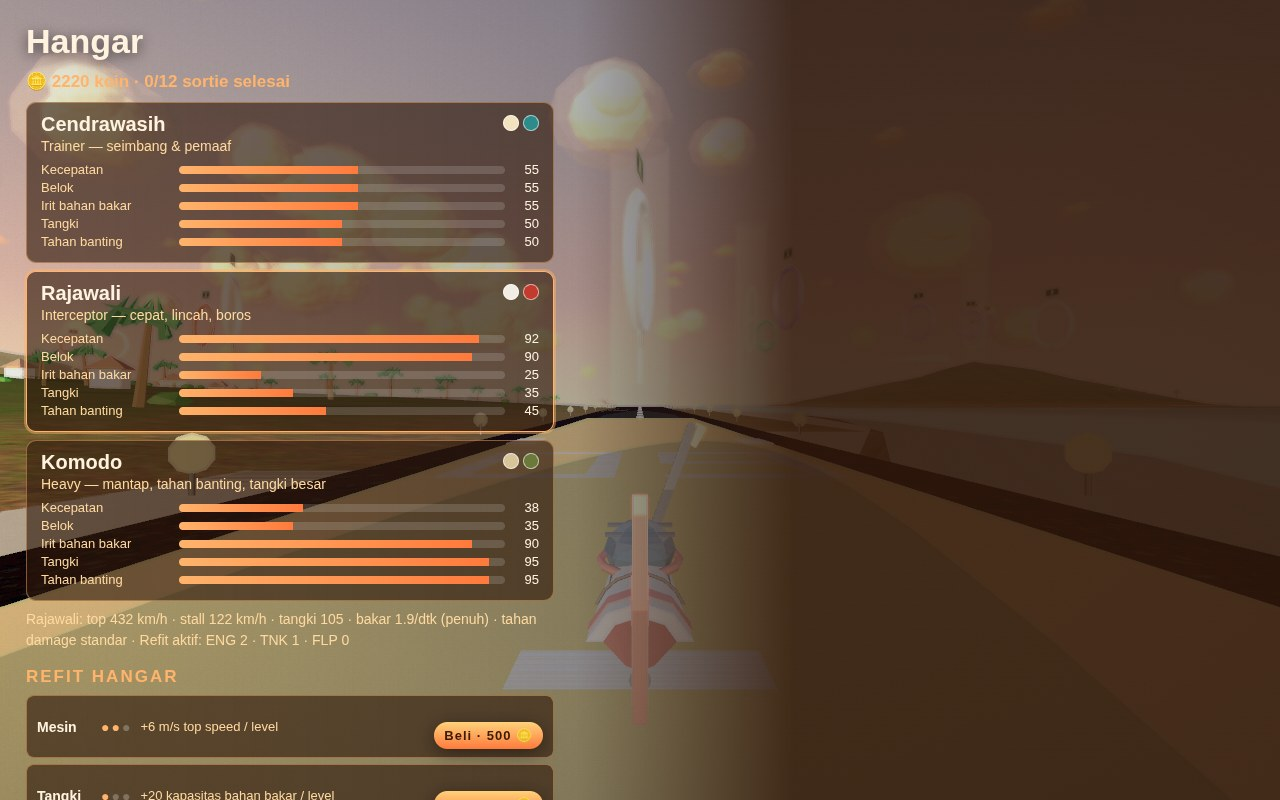
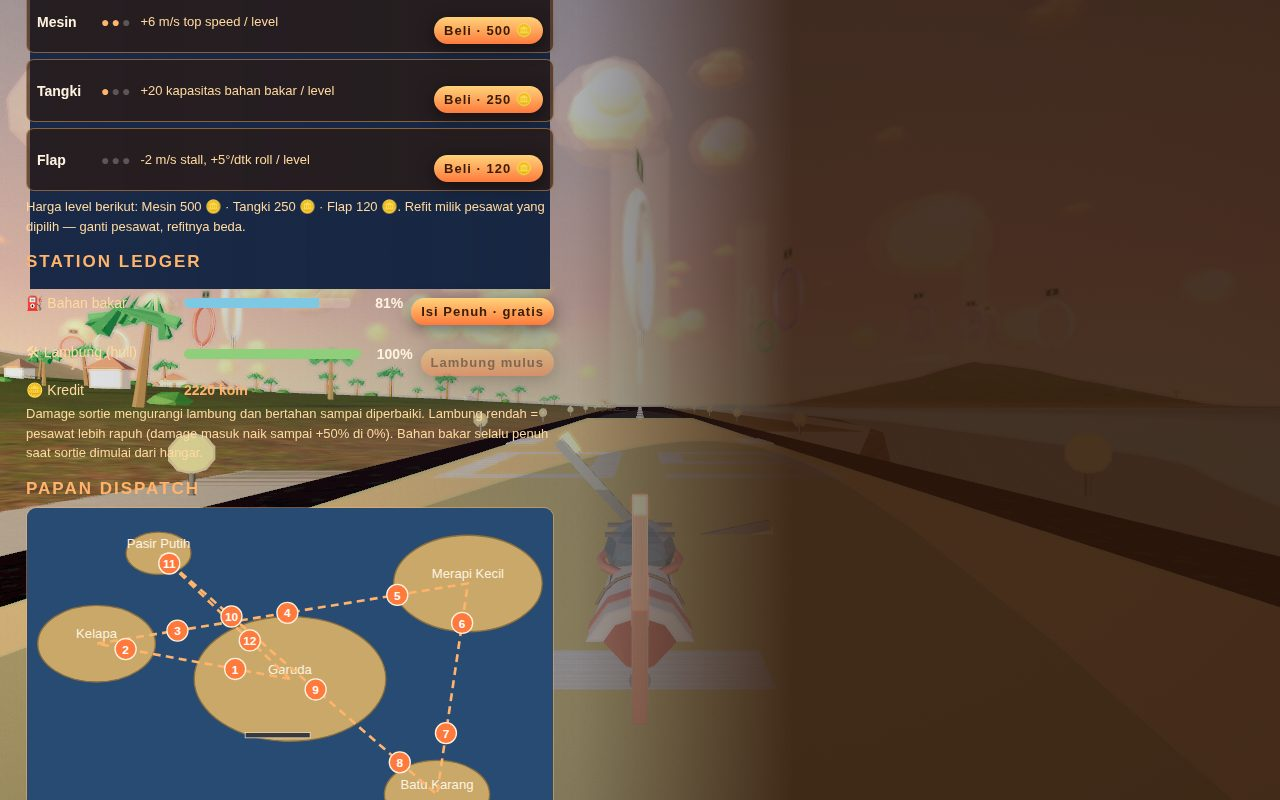
R2-10: re-shoot boss/cover/hangar/cockpit per evaluator
Boss: deterministic storm in shot mode (weather.setShotHold pins
intensity 1 + one close bolt + heavy rain), storm suppresses dusk
grade and dims Lambert clouds, flash light lowered so it stops
re-lighting the clouds cream. Cover: pose yaw 62->25 (sun ~60deg
off nose), throttle 0.7 (afterburner off), shot glare 0.25.
Hangar: snap menu camera to parked plane, panel scrolled to
ledger + full dispatch map. Cockpit: glance -60 moves far white
ring off the altitude tape. Posed frames re-apply setTimeOfDay so
the storm grade follows the ramped intensity. Normal play untouched
(shot-only paths: setShotHold/setShotGlare/pose values).

diff --git a/game/src/render.js b/game/src/render.js
@@ -394,6 +394,10 @@ export function createRenderer(canvas, world) {
   let fovApplied = FOV_BASE;
   let prevDamage = 0;
   let crashShakeDone = false;
+  // R2-10 shot-mode sun-glare scale (1 = normal play): the cover
+  // pose flies toward the low sun, and the full glare + streak blows
+  // the plane white. Shots set it <1; normal play never touches it.
+  let shotGlare = 1;
   // True until the first frame (or after snap()): the camera jumps
   // straight to the active view instead of gliding across the map.
   // Headless screenshots only render a handful of frames, so without
@@ -558,29 +562,53 @@ export function createRenderer(canvas, world) {
     sun.position.set(dir.x * 900, dir.y * 900, dir.z * 900);
     sun.color.copy(sunCol);
     sun.intensity = num('sunIntensity');
-    // Dusk boost (R2-3): near hour 19 the horizon deepens to a hot
-    // orange and the zenith to violet, so the sunset gradient reads
-    // orange-to-purple instead of washing out to pale pink. The
-    // keyframes in config stay untouched — this is a render-side
-    // grade on top of them.
-    const duskW = Math.exp(-Math.pow((h - 19) / 1.7, 2)) * (1 - nightFactor);
-    if (duskW > 0.01) {
-      horizon.lerp(new THREE.Color(0xff5e14), duskW * 0.55);
-      zenith.lerp(new THREE.Color(0x3a1e6e), duskW * 0.55);
-      sunCol.lerp(new THREE.Color(0xff6a1a), duskW * 0.4);
-    }
     // R2-4 — storm grade: the boss storm darkens the whole sky on
     // top of the day-night keyframes (slate horizon/zenith, dimmer
     // sun, lower exposure, weaker glow), so the arena reads as a
     // storm cell, not a bright dusk. The weather module eases its
     // intensity in and out; this grade follows it every frame.
+    // (R2-10: read the storm level BEFORE the dusk boost, so a full
+    // storm suppresses the hot-orange dusk grade instead of fighting
+    // it — the old order let dusk pink survive under the storm.)
     const storm = weather ? weather.intensity : 0;
-    if (storm > 0.01) {
-      horizon.lerp(new THREE.Color(0x4a5568), storm * 0.7);
-      zenith.lerp(new THREE.Color(0x1a2233), storm * 0.7);
-      sunCol.lerp(new THREE.Color(0x8a94a8), storm * 0.6);
-      sun.intensity *= 1 - storm * 0.55;
+    // Dusk boost (R2-3): near hour 19 the horizon deepens to a hot
+    // orange and the zenith to violet, so the sunset gradient reads
+    // orange-to-purple instead of washing out to pale pink. The
+    // keyframes in config stay untouched — this is a render-side
+    // grade on top of them.
+    const duskW = Math.exp(-Math.pow((h - 19) / 1.7, 2)) * (1 - nightFactor) * (1 - storm * 0.85);
+    if (duskW > 0.01) {
+      horizon.lerp(new THREE.Color(0xff5e14), duskW * 0.55);
+      zenith.lerp(new THREE.Color(0x3a1e6e), duskW * 0.55);
+      sunCol.lerp(new THREE.Color(0xff6a1a), duskW * 0.4);
     }
+    if (storm > 0.01) {
+      // R2-10: stronger storm sky lerp (0.85/0.9 vs 0.7) — the old
+      // weights left a pink dusk band under the storm.
+      horizon.lerp(new THREE.Color(0x4a5568), storm * 0.85);
+      zenith.lerp(new THREE.Color(0x1a2233), storm * 0.9);
+    }
+    // R2-10b: dim the (Lambert) cloud layers with the storm too —
+    // the sky dome darkened but the cream cloud puffs stayed
+    // bright, and they are the biggest sky area in the boss frame.
+    // Runs at every storm level INCLUDING 0, so leaving the storm
+    // restores full brightness instead of leaving dimmed clouds.
+    {
+      const cloudDim = 1 - storm * 0.55;
+      if (world && world.cloudLayers) {
+        for (const layer of world.cloudLayers) {
+          if (layer && layer.material && layer.material.color) {
+            layer.material.color.setScalar(cloudDim);
+          }
+        }
+      }
+      if (world && world.cloudBlobs && world.cloudBlobs.material && world.cloudBlobs.material.color) {
+        world.cloudBlobs.material.color.setScalar(cloudDim);
+      }
+    }
+    // Sun colour/intensity follow the storm at any level (0 = no-op).
+    sunCol.lerp(new THREE.Color(0x8a94a8), storm * 0.6);
+    sun.intensity *= 1 - storm * 0.55;
     hemi.color.copy(zenith);
     hemi.groundColor.copy(lerpHex(0xe8cf9a, 0x1a2436, nightFactor));
     hemi.intensity = num('hemi');
@@ -595,15 +623,16 @@ export function createRenderer(canvas, world) {
     scene.fog.far = (atm0.fogFar || 2600) - duskW * 550;
     paintSkyDome(skyDome, horizon.getHex(), zenith.getHex());
     if ('toneMappingExposure' in renderer) {
-      // Storm grade (R2-4): lower exposure while the storm is on.
-      renderer.toneMappingExposure = num('exposure') + duskW * 0.06 - storm * 0.2;
+      // Storm grade (R2-4): lower exposure while the storm is on
+      // (R2-10: -0.3, was -0.2 — the still kept reading as dusk).
+      renderer.toneMappingExposure = num('exposure') + duskW * 0.06 - storm * 0.3;
     }
     // Sun glow + disc follow the sun; at night they become a pale
     // moon (small disc, faint cool glow) instead of vanishing.
     sunGlow.position.set(dir.x * 3200, dir.y * 3200, dir.z * 3200);
     sunStreak.position.set(dir.x * 3200, dir.y * 3200, dir.z * 3200);
-    streakMat.opacity = num('glow') * 0.55 * (1 - storm * 0.7);
-    glowMat.opacity = num('glow') * (1 - storm * 0.7);
+    streakMat.opacity = num('glow') * 0.55 * (1 - storm * 0.7) * shotGlare;
+    glowMat.opacity = num('glow') * (1 - storm * 0.7) * shotGlare;
     glowMat.color.copy(sunCol);
     sunDisc.position.set(dir.x * 3300, dir.y * 3300, dir.z * 3300);
     sunDisc.lookAt(0, 0, 0);
@@ -616,7 +645,7 @@ export function createRenderer(canvas, world) {
         dir.y * 3200 + (i === 0 ? -120 : 180),
         dir.z * 3200
       );
-      g.material.opacity = (0.28 - i * 0.1) * (1 - nightFactor * 0.85);
+      g.material.opacity = (0.28 - i * 0.1) * (1 - nightFactor * 0.85) * shotGlare;
     }
     stars.material.opacity = nightFactor * 0.9;
     // Blob-shadow geometry follows the new sun elevation/azimuth.
@@ -657,6 +686,11 @@ export function createRenderer(canvas, world) {
     // the sortie (menu, other missions) turns it back off.
     setStorm(on) {
       if (weather) weather.setActive(!!on);
+    },
+    // R2-10: scale the sun glare/streak/ghosts for a posed shot
+    // (0..1, 1 = normal). Shot-mode only; normal play never calls it.
+    setShotGlare(f) {
+      shotGlare = clamp(typeof f === 'number' ? f : 1, 0, 1);
     },
     // Day-night cycle: pin or read the game clock (hours, 0..24)
     // and how night it is (0 = day, 1 = full night).

diff --git a/game/src/weather.js b/game/src/weather.js
@@ -121,10 +121,15 @@ export function createWeather(scene) {
   let flash = 0;
   let nextStrikeIn = 2.5;
   let thunderTimer = -1;
+  // Shot hold (R2-10): posed screenshot mode pins one bolt in frame
+  // with the flash held — the random 2–5 s strike + ~1 s decay never
+  // survives a ~1 fps screenshot wait. Normal play never sets this.
   // Gust state: a slow random walk in direction with a pulsing
   // magnitude, so the push comes in waves instead of a constant shove.
   let gustAngle = Math.PI * 0.75;
   let gustStrength = 0;
+
+  let shotHold = false;
 
   const api = {
     onThunder: null,
@@ -148,11 +153,34 @@ export function createWeather(scene) {
       active = !!on;
       targetIntensity = active ? clamp(level === undefined ? 1 : level, 0, 1) : 0;
       if (!active) {
+        shotHold = false;
         rain.visible = false;
         cell.visible = false;
         bolt.visible = false;
         flashLight.intensity = 0;
       }
+    },
+
+    // Shot hold (R2-10, posed screenshots only): storm at full
+    // strength instantly, one bolt built ahead of the posed plane
+    // and held visible with the flash pinned — deterministic, so
+    // the still frame always catches lightning. Normal play is
+    // untouched (random strikes + decaying flash).
+    setShotHold(st) {
+      if (!active) return;
+      targetIntensity = 1;
+      intensity = 1;
+      shotHold = true;
+      if (st && st.position) {
+        lastPos = { x: st.position.x, y: st.position.y, z: st.position.z };
+        const cp = Math.cos(st.pitch || 0);
+        lastForward = {
+          x: -cp * Math.sin(st.yaw || 0),
+          z: -cp * Math.cos(st.yaw || 0),
+        };
+      }
+      buildBolt();
+      flash = 1;
     },
 
     // Current gust vector (m/s, world xz) plus its strength, for the
@@ -215,7 +243,7 @@ export function createWeather(scene) {
         const cx = camera.position.x;
         const cy = camera.position.y;
         const cz = camera.position.z;
-        const len = 2.2 + gustStrength * 0.06;
+        const len = shotHold ? 5 : 2.2 + gustStrength * 0.06;
         for (let i = 0; i < RAIN_COUNT; i++) {
           const d = drops[i];
           d.y -= RAIN_FALL * dt;
@@ -235,7 +263,8 @@ export function createWeather(scene) {
           rainPos[o + 5] = cz + d.z - slantZ * 0.02;
         }
         rainGeo.attributes.position.needsUpdate = true;
-        rainMat.opacity = 0.55 * intensity;
+        // Shot hold: heavier rain reads in a still (0.85 vs 0.55).
+        rainMat.opacity = shotHold ? 0.85 : 0.55 * intensity;
       }
 
       // --- Lightning: strikes arrive every 2–5 s at full storm.
@@ -243,7 +272,7 @@ export function createWeather(scene) {
       // flash decays over ~1 s (not a single blink) with one
       // secondary flicker, so a screenshot has a real chance of
       // catching a strike instead of needing frame-perfect timing.
-      if (on) {
+      if (on && !shotHold) {
         nextStrikeIn -= dt;
         if (nextStrikeIn <= 0) {
           nextStrikeIn = 2 + Math.random() * 3;
@@ -259,7 +288,18 @@ export function createWeather(scene) {
           if (api.onThunder) api.onThunder();
         }
       }
-      if (flash > 0) {
+      if (shotHold) {
+        // Pinned bolt: flash held, bolt fully opaque, flash light
+        // LOW (0.6, not the 3.2 strike peak): the flash is a
+        // directional light from above, and at 1.8 it flooded the
+        // (Lambert) clouds bright cream and defeated the whole
+        // storm darkening. The bolt lines themselves carry the
+        // lightning read against the darkened sky.
+        flash = 1;
+        flashLight.intensity = 0.6 * intensity;
+        boltMat.opacity = 1;
+        bolt.visible = true;
+      } else if (flash > 0) {
         flash *= Math.exp(-dt * 4);
         if (flash < 0.02) flash = 0;
         // Secondary flicker: a brief re-brightening mid-decay.
@@ -283,7 +323,9 @@ export function createWeather(scene) {
             color: scene.fog.color.clone(),
           };
         }
-        const w = intensity * 0.6;
+        // R2-10 shot hold: grade the fog harder toward storm slate
+        // (0.85 vs 0.6) so the arena reads dark even in a still.
+        const w = intensity * (shotHold ? 0.85 : 0.6);
         scene.fog.far = lerp(scene.fog.far, 1300, intensity * 0.7);
         scene.fog.near = lerp(scene.fog.near, 120, intensity * 0.5);
         scene.fog.color.copy(fogBase.color).lerp(STORM_FOG, w);
@@ -312,8 +354,13 @@ export function createWeather(scene) {
     let sx;
     let sz;
     if (lastPos && lastForward) {
-      const along = 250 + Math.random() * 350;
-      const lat = (Math.random() - 0.5) * 500;
+      // Shot hold: strike CLOSE (130–280 m ahead) so the bolt is
+      // big in frame — the normal 250–600 m strike reads as a thin
+      // zigzag at the frame edge in a still.
+      const along = shotHold
+        ? 130 + Math.random() * 150
+        : 250 + Math.random() * 350;
+      const lat = (Math.random() - 0.5) * (shotHold ? 360 : 500);
       // Right vector for a forward (fx, fz) in xz: (-fz, fx).
       sx = lastPos.x + lastForward.x * along + -lastForward.z * lat;
       sz = lastPos.z + lastForward.z * along + lastForward.x * lat;

diff --git a/game/src/shots.js b/game/src/shots.js
@@ -76,22 +76,30 @@ export function createShots(render, flight, world, missions) {
 
     if (name === 'cover') {
       // H3 — dramatic cover: east of Garuda over open sea, heading
-      // WNW (yaw 62, bearing ~298) so the frame holds the low sun and
-      // its glint path on the left, Merapi Kecil looming on the right,
-      // and rings 2 and 3 in the middle distance. Lower (100 m) at
-      // 70 m/s. Banked 0 deg on purpose: a banked pose turns the plane
-      // while the screenshot waits, and the turn walks the sun out of
-      // the frame; wings-level locks the sun/Merapi composition.
+      // SSW (yaw 25, bearing ~205) so the low sun sits ~60 deg off
+      // the nose — out of frame — instead of dead ahead blowing the
+      // plane white (R2-10 evaluator: sun + afterburner made the
+      // Rajawali a white blob). Throttle 0.7 keeps the afterburner
+      // off in the shot (it wakes past 80%) and the shot glare is
+      // dimmed to 0.25 — shot mode only, normal play untouched.
+      // Merapi Kecil still looms on the right, rings 2 and 3 in the
+      // middle distance ahead (ring line z = 330, plane flying +z).
       startForShot(1, 'free');
-      pose(1650, 100, 100, 62, 0, 70, 0.95, 0);
+      pose(1650, 100, 100, 25, 0, 70, 0.7, 0);
       render.setView('chase');
+      if (render && typeof render.setShotGlare === 'function') render.setShotGlare(0.25);
     } else if (name === 'cockpit') {
       // Cockpit view, ~150 m short of ring 1 (120, 60, 330) so the
       // gold ring + number board fill the view ahead instead of
       // reading as a distant speck; instruments lit, tapes + TAWS live.
+      // R2-10: a small right glance (addLook -60) swings the far
+      // white ring off the right altitude tape — the first try (+60)
+      // swung it ONTO the tape instead. Verified visually, not by
+      // sign reasoning.
       startForShot(1, 'free');
       pose(-30, 65, ringZ, -90, 0, 55, 0.65);
       render.setView('cockpit');
+      if (render && typeof render.addLook === 'function') render.addLook(-60, 0);
     } else if (name === 'boss') {
       // Boss finale (sortie 12): storm on, dusk pinned via ?time=.
       // Rajawali banked 15 deg at 80 m/s, 180 m short of storm ring 1
@@ -103,10 +111,19 @@ export function createShots(render, flight, world, missions) {
       // storm branch in main.js) so setTimeOfDay below picks the
       // overcast env map. (HUD target still names ring 1 — posed
       // staging, no ring flown.)
+      // R2-10: pin the storm — setShotHold forces intensity 1 at
+      // once (posed frames never re-run setTimeOfDay, so the old
+      // eased ramp never darkened the sky), builds one bolt ahead
+      // of the plane and holds it + heavy rain in frame. Throttle
+      // 0.7 keeps the afterburner off so the livery is not blown
+      // out a second time. Normal-play lightning is untouched.
       startForShot(11, 'free');
-      pose(120, 88, 300, -90, 0, 80, 0.9, 15);
+      pose(120, 88, 300, -90, 0, 80, 0.7, 15);
       render.setView('chase');
       if (render && typeof render.setStorm === 'function') render.setStorm(true);
+      if (render && render.weather && typeof render.weather.setShotHold === 'function') {
+        render.weather.setShotHold(flight.state);
+      }
     } else if (name === 'hangar') {
       // Hangar/dispatch screen: no flight pose — the plane stays
       // parked on the runway behind the hangar panel; main.js opens

diff --git a/game/src/main.js b/game/src/main.js
@@ -664,6 +664,17 @@ if (shots.shotName === 'hangar') {
   hud.setScreen('menu');
   hud.setCockpit(false);
   openHangar();
+  // R2-10: snap the menu camera to the parked plane (without this
+  // the chase camera glides in from (-40,30,360) and the shot can
+  // catch it still far down the runway — the old shot's tiny plane)
+  // and scroll the panel so the ledger + dispatch map + medals are
+  // in frame instead of buried below the fold.
+  render.snap();
+  // (R2-10b: the yaw-orbit try put the parked plane side-on but
+  // half-hidden behind the panel edge and reading as debris —
+  // reverted to the tail-on chase view, which reads as a plane.)
+  const hp = document.querySelector('.hangar-panel');
+  if (hp) hp.scrollTop = Math.max(0, (hp.scrollHeight - hp.clientHeight) * 0.78);
 } else if (shots.shotName) {
   state.shot = shots.shotName;
   state.posed = true;
@@ -761,7 +772,12 @@ function frame(now) {
   } else if (state.screen === 'playing' && state.posed) {
     // Posed for a screenshot: propeller spins, plane never moves.
     // Keep the clock in sync with the pinned render hour.
+    // R2-10: re-apply the grade every frame — the boss storm grade
+    // reads weather.intensity inside setTimeOfDay, and the storm
+    // only reaches full strength after the shot is posed, so a
+    // single call at pose time graded a clear sky.
     gameHour = render.getTimeOfDay();
+    render.setTimeOfDay(gameHour);
     aircraft.setThrottle(flight.state.throttle);
     aircraft.update(dt, { roll: 0, pitch: 0 });
   } else if (state.screen === 'menu') {
